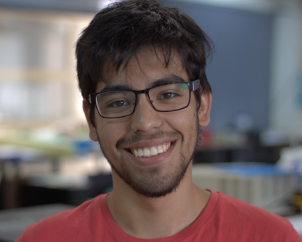
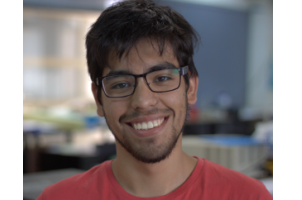
adding Julian Pardo

diff --git a/team.html b/team.html
@@ -33,12 +33,12 @@
                             <div class="view view_first">
                                 <img src="static/img/team/lmartinez.jfif" alt=""/>
                                 <div class="mask">
-                                    <h2>Luz Martínez</h2>
+                                    <h2>Luz Martínsaaez</h2>
                                     <p><b>PhD en Robótica e Inteligencia Artificial </b><br> </p>
                                      <a href="https://www.linkedin.com/in/luz-martinez-79ab0450/" target="_blank" class="btn">Linkedin</a> 
                                 </div>
                             </div>
-                            <blockquote>Luz Martínez<br>PhD en Robótica e Inteligencia Artificial</blockquote>
+                            <blockquote><b>Luz Martínez</b><br><b>Directora</b> <br>PhD en Robótica e Inteligencia Artificial</blockquote>
                         </div>
 
                         <div class="col-sm-4">
@@ -50,7 +50,7 @@
                                      <a href="https://www.linkedin.com/in/jos%C3%A9-astorga-tobar-290877167/" target="_blank" class="btn">Linkedin</a> 
                                 </div>
                             </div>
-                            <blockquote>José Astorga <br>MSc en Ciencias de la Computación</blockquote>
+                            <blockquote><b>José Astorga</b> <br>MSc en Ciencias de la Computación</blockquote>
                         </div>
 
                         <div class="col-sm-4">
@@ -62,25 +62,11 @@
                                      <a href="https://www.linkedin.com/in/francisco-a-c%C3%A1ceres-v%C3%A9liz/" target="_blank" class="btn">Linkedin</a> 
                                 </div>
                             </div>
-                            <blockquote>Francisco Cáceres<br>Ingeniero Civil Mecánico</blockquote>
+                            <blockquote><b>Francisco Cáceres</b><br><b>Líder de Hardware</b> <br> Ingeniero Civil Mecánico</blockquote>
                         </div>
 
                     </div>
                     <div class="row">
-
-
-                        <div class="col-sm-4">
-                            <div class="view view_first">
-                                <img src="static/img/team/rnavarro.jpg" alt=""/>
-                                <div class="mask">
-                                    <h2>Rodrigo Navarro </h2>
-                                    <p><b>Ingeniero Civil Eléctrico</b><br> </p>
-                                    <a href="https://www.linkedin.com/in/rodrigo-navarro-a11911252/?originalSubdomain=cl" target="_blank" class="btn">Linkedin</a>
-                                </div>
-                            </div>
-                            <blockquote>Rodrigo Navarro<br>Ingeniero Civil Eléctrico</blockquote>
-                        </div>
-
 
                         <div class="col-sm-4">
                             <div class="view view_first">
@@ -91,22 +77,31 @@
                                      <a href="https://www.linkedin.com/in/el%C3%ADas-orme%C3%B1o-043651292/" target="_blank" class="btn">Linkedin</a> 
                                 </div>
                             </div>
-                            <blockquote>Elías Ormeño<br> Estudiante de Ingeniería Civil Mecánica</blockquote>
+                            <blockquote><b>Elías Ormeño</b> <br> <b>Líder de Alianzas Estratégicas</b> <br> Estudiante de Ingeniería Civil Mecánica</blockquote>
                         </div>
-
 
                         <div class="col-sm-4">
                             <div class="view view_first">
-                                <img src="static/img/team/rsalas.jfif" alt=""/>
+                                <img src="static/img/team/rnavarro.jpg" alt=""/>
                                 <div class="mask">
-                                    <h2>Rodrigo Salas </h2>
-                                    <p><b>MSc en Ingeniería Eléctrica</b><br> </p>
-                                     <a href="https://www.linkedin.com/in/el%C3%ADas-orme%C3%B1o-043651292/" target="_blank" class="btn">Linkedin</a> 
+                                    <h2>Rodrigo Navarro </h2>
+                                    <p><b>Ingeniero Civil Eléctrico</b><br> </p>
+                                    <a href="https://www.linkedin.com/in/rodrigo-navarro-a11911252/?originalSubdomain=cl" target="_blank" class="btn">Linkedin</a>
                                 </div>
                             </div>
-                            <blockquote>Rodrigo Salas<br>[Advisor] MSc en Ingeniería Eléctrica</blockquote>
+                            <blockquote><b>Rodrigo Navarro</b> <br>Ingeniero Civil Eléctrico</blockquote>
                         </div>
 
+                        <div class="col-sm-4">
+                            <div class="view view_first">
+                                <img src="static/img/team/jpardo.jpeg" alt=""/>
+                                <div class="mask">
+                                    <h2>Julian Pardo</h2>
+                                    <p><b>Estudiante de Ingeniería Civil Mecánica</b><br> </p>
+                                </div>
+                            </div>
+                            <blockquote><b>Julian Pardo</b> <br><b>Mecánico Trainee</b> <br>Estudiante de Ingeniería Civil Mecánica</blockquote>
+                        </div>
 
                         </div> <!-- row -->
                 </div>

diff --git a/transparency.html b/transparency.html
@@ -1,0 +1,65 @@
+---
+# this is an empty front matter
+---
+
+<html lang="en">
+
+{% include head.html title="Transparencia - CIRTA" %}
+
+<body>
+
+{% include navigation.html %}
+
+{% include header_img.html image="static/img/title/team-bg.jpg" title="Transparencia" subtitle="" meta="" %}
+
+<div class="container">
+  <div class="row">
+    <div class="col-lg-8 col-lg-offset-2 col-md-10 col-md-offset-1">
+
+      <h3>Información legal</h3>
+      <p>
+        <strong>Nombre:</strong> CORPORACION CIRTA<br>
+        <strong>RUT:</strong> 65.272.022-6<br>
+        <strong>Tipo:</strong> Corporación sin fines de lucro<br>
+        <strong>Fecha de constitución:</strong> 13/03/2026<br>
+        <strong>Representante legal:</strong> Luz Martínez</p>
+
+      <h3>Directorio</h3>
+      <ul>
+        <li>Directora: Luz Martinez</li>
+        <li>Tesorero: José Astorga</li>
+        <li>Secretario: Francisco Cáceres</li>
+      </ul>
+
+      <h3>Áreas de trabajo</h3>
+      <ul>
+        <li>Robótica aplicada</li>
+        <li>Inteligencia artificial</li>
+        <li>Educación tecnológica</li>
+      </ul>
+
+      <h3>Actividades</h3>
+      <ul>
+        <li>Desarrollo de proyectos de investigación y desarrollo (I+D).</li>
+        <li>Colaboración con empresas, universidades y organizaciones públicas.</li>
+        <li>Diseño e implementación de soluciones tecnológicas.</li>
+        <li>Programas de formación y capacitación en tecnologías emergentes.</li>
+      </ul>
+
+      <h3>Financiamiento</h3>
+      <p>
+        La corporación se financia mediante fondos públicos, proyectos de investigación y desarrollo,
+        colaboraciones con entidades privadas y otras fuentes compatibles con su naturaleza sin fines de lucro.
+      </p>
+
+    </div>
+  </div>
+</div>
+
+<hr>
+
+{% include footer.html %}
+{% include bottom.html %}
+
+</body>
+</html>

diff --git a/about.html b/about.html
@@ -19,10 +19,13 @@
         <div class="row">
             <div class="col-lg-8 col-lg-offset-2 col-md-10 col-md-offset-1">
 
+ <p>
+CIRTA es una corporación sin fines de lucro dedicada a la investigación y desarrollo tecnológico.
+ </p>
+
 		<h3>Misión</h3>
                 <p>
 “Crear y aplicar conocimiento científico y tecnológico para generar innovaciones con impacto tangible y sostenible, promoviendo un progreso equitativo y colaborativo entre empresas, universidades y la sociedad.”
-
                 </p>
 
 		<h3>Visión</h3>
@@ -30,7 +33,18 @@
 “Aspiramos a una sociedad más justa, resiliente y conectada, donde el avance científico y tecnológico contribuya a un desarrollo sostenible, a la inclusión social, a una economía competitiva y a un entorno ético que promueva el bien común.”
                 </p>
 
- 
+        <h3>Qué hacemos</h3>
+<p>
+Desarrollamos e implementamos soluciones en robótica e inteligencia artificial aplicada, con foco en [ej: agricultura, educación y automatización industrial]. 
+
+Nuestros programas incluyen:
+<ul>
+    <li>Desarrollo de plataformas tecnológicas (simulación y robótica aplicada).</li>
+    <li>Ejecución de proyectos de I+D con empresas y universidades.</li>
+    <li>Formación y capacitación en robótica y tecnologías emergentes.</li>
+</ul>
+</p>
+                
 
             </div>
         </div>

diff --git a/_includes/navigation.html b/_includes/navigation.html
@@ -22,6 +22,7 @@
                         <!--<li role="separator" class="divider"></li>-->
                         <li> <a href="about.html">Nosotros</a> </li>
                         <li><a href="team.html">Equipo</a></li>
+                        <li><a href="transparency.html">Transparencia</a></li>
                     </ul>
                 </li>
             
